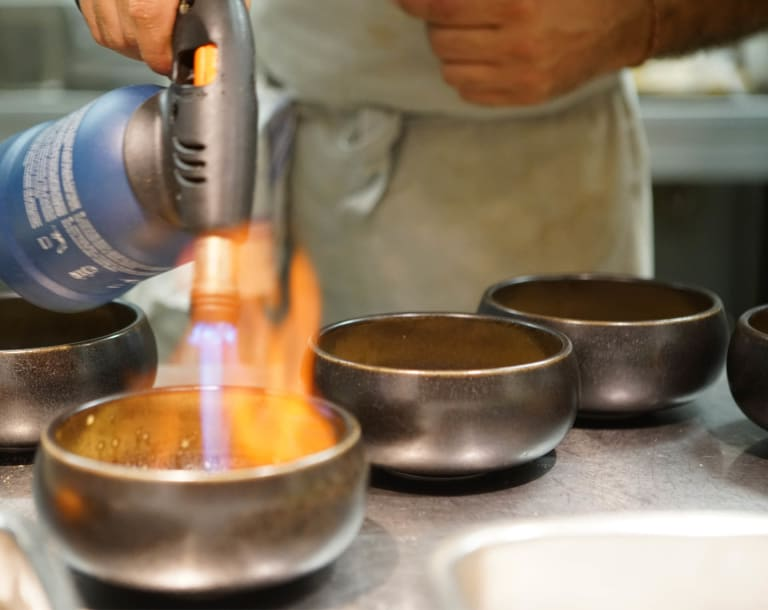
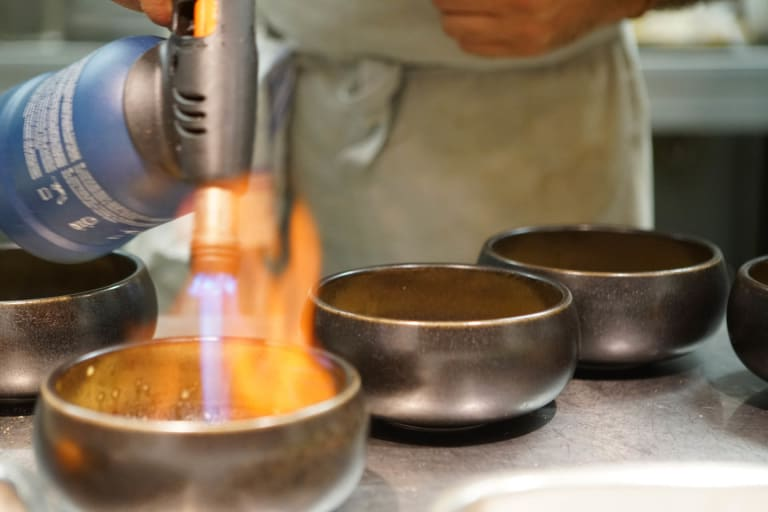
Redesign 3 sections footer images aspect ratio.
Sections :
- À Domicile;
- Cours de Pâtisserie;
- Témoignages.

diff --git a/index.html b/index.html
@@ -1185,46 +1185,43 @@
           sizes="100vw"
           srcset="
             medias/images/footers/feu_webp/feu_w_320.webp 320w,
-            medias/images/footers/feu_webp/feu_w_493.webp 493w,
-            medias/images/footers/feu_webp/feu_w_640.webp 640w,
-            medias/images/footers/feu_webp/feu_w_787.webp 787w,
-            medias/images/footers/feu_webp/feu_w_915.webp 915w,
-            medias/images/footers/feu_webp/feu_w_1068.webp 1068w,
-            medias/images/footers/feu_webp/feu_w_1164.webp 1164w,
-            medias/images/footers/feu_webp/feu_w_1178.webp 1178w,
-            medias/images/footers/feu_webp/feu_w_1288.webp 1288w,
-            medias/images/footers/feu_webp/feu_w_1390.webp 1390w,
-            medias/images/footers/feu_webp/feu_w_1507.webp 1507w,
-            medias/images/footers/feu_webp/feu_w_1626.webp 1626w,
-            medias/images/footers/feu_webp/feu_w_1751.webp 1751w,
-            medias/images/footers/feu_webp/feu_w_1679.webp 1679w,
-            medias/images/footers/feu_webp/feu_w_1768.webp 1768w,
+            medias/images/footers/feu_webp/feu_w_517.webp 517w,
+            medias/images/footers/feu_webp/feu_w_671.webp 671w,
+            medias/images/footers/feu_webp/feu_w_842.webp 842w,
+            medias/images/footers/feu_webp/feu_w_985.webp 985w,
+            medias/images/footers/feu_webp/feu_w_1152.webp 1152w,
+            medias/images/footers/feu_webp/feu_w_1267.webp 1267w,
+            medias/images/footers/feu_webp/feu_w_1276.webp 1276w,
+            medias/images/footers/feu_webp/feu_w_1374.webp 1374w,
+            medias/images/footers/feu_webp/feu_w_1506.webp 1506w,
+            medias/images/footers/feu_webp/feu_w_1624.webp 1624w,
+            medias/images/footers/feu_webp/feu_w_1770.webp 1770w,
             medias/images/footers/feu_webp/feu_w_1920.webp 1920w"
         />
         <source
           type="image/jpg"
           sizes="100vw"
           srcset="
-            medias/images/footers/feu_jpg/feu_w_320.jpg 320w,
-            medias/images/footers/feu_jpg/feu_w_453.jpg 453w,
-            medias/images/footers/feu_jpg/feu_w_556.jpg 556w,
-            medias/images/footers/feu_jpg/feu_w_679.jpg 679w,
-            medias/images/footers/feu_jpg/feu_w_768.jpg 768w,
-            medias/images/footers/feu_jpg/feu_w_862.jpg 862w,
-            medias/images/footers/feu_jpg/feu_w_958.jpg 958w,
-            medias/images/footers/feu_jpg/feu_w_1048.jpg 1048w,
-            medias/images/footers/feu_jpg/feu_w_1129.jpg 1129w,
-            medias/images/footers/feu_jpg/feu_w_1216.jpg 1216w,
-            medias/images/footers/feu_jpg/feu_w_1289.jpg 1289w,
-            medias/images/footers/feu_jpg/feu_w_1365.jpg 1365w,
-            medias/images/footers/feu_jpg/feu_w_1436.jpg 1436w,
-            medias/images/footers/feu_jpg/feu_w_1513.jpg 1513w,
-            medias/images/footers/feu_jpg/feu_w_1585.jpg 1585w,
-            medias/images/footers/feu_jpg/feu_w_1651.jpg 1651w,
-            medias/images/footers/feu_jpg/feu_w_1723.jpg 1723w,
-            medias/images/footers/feu_jpg/feu_w_1740.jpg 1740w,
-            medias/images/footers/feu_jpg/feu_w_1755.jpg 1755w,
-            medias/images/footers/feu_jpg/feu_w_1920.jpg 1920w"
+            medias/images/footers/feu_jpg/feu_jpg 320w,
+            medias/images/footers/feu_jpg/feu_jpg 448w,
+            medias/images/footers/feu_jpg/feu_jpg 555w,
+            medias/images/footers/feu_jpg/feu_jpg 675w,
+            medias/images/footers/feu_jpg/feu_jpg 768w,
+            medias/images/footers/feu_jpg/feu_jpg 869w,
+            medias/images/footers/feu_jpg/feu_jpg 957w,
+            medias/images/footers/feu_jpg/feu_.jpg 1047w,
+            medias/images/footers/feu_jpg/feu_.jpg 1122w,
+            medias/images/footers/feu_jpg/feu_.jpg 1208w,
+            medias/images/footers/feu_jpg/feu_.jpg 1290w,
+            medias/images/footers/feu_jpg/feu_.jpg 1368w,
+            medias/images/footers/feu_jpg/feu_.jpg 1440w,
+            medias/images/footers/feu_jpg/feu_.jpg 1505w,
+            medias/images/footers/feu_jpg/feu_.jpg 1585w,
+            medias/images/footers/feu_jpg/feu_.jpg 1651w,
+            medias/images/footers/feu_jpg/feu_.jpg 1722w,
+            medias/images/footers/feu_jpg/feu_.jpg 1791w,
+            medias/images/footers/feu_jpg/feu_.jpg 1858w,
+            medias/images/footers/feu_jpg/feu_.jpg 1920w"
         />
         <img
           class="zapload section__footer block--white block--skewed--bottom--left"
@@ -1880,23 +1877,23 @@
           sizes="100vw"
           srcset="
             medias/images/footers/tartes_webp/tartes_w_320.webp 320w,
-            medias/images/footers/tartes_webp/tartes_w_466.webp 466w,
-            medias/images/footers/tartes_webp/tartes_w_746.webp 746w,
-            medias/images/footers/tartes_webp/tartes_w_750.webp 750w,
-            medias/images/footers/tartes_webp/tartes_w_848.webp 848w,
-            medias/images/footers/tartes_webp/tartes_w_942.webp 942w,
-            medias/images/footers/tartes_webp/tartes_w_1027.webp 1027w,
-            medias/images/footers/tartes_webp/tartes_w_1117.webp 1117w,
-            medias/images/footers/tartes_webp/tartes_w_1211.webp 1211w,
-            medias/images/footers/tartes_webp/tartes_w_1233.webp 1233w,
-            medias/images/footers/tartes_webp/tartes_w_1232.webp 1232w,
-            medias/images/footers/tartes_webp/tartes_w_1317.webp 1317w,
-            medias/images/footers/tartes_webp/tartes_w_1389.webp 1389w,
-            medias/images/footers/tartes_webp/tartes_w_1457.webp 1457w,
-            medias/images/footers/tartes_webp/tartes_w_1524.webp 1524w,
-            medias/images/footers/tartes_webp/tartes_w_1605.webp 1605w,
+            medias/images/footers/tartes_webp/tartes_w_461.webp 461w,
+            medias/images/footers/tartes_webp/tartes_w_591.webp 591w,
+            medias/images/footers/tartes_webp/tartes_w_647.webp 647w,
+            medias/images/footers/tartes_webp/tartes_w_739.webp 739w,
+            medias/images/footers/tartes_webp/tartes_w_837.webp 837w,
+            medias/images/footers/tartes_webp/tartes_w_929.webp 929w,
+            medias/images/footers/tartes_webp/tartes_w_1010.webp 1010w,
+            medias/images/footers/tartes_webp/tartes_w_1083.webp 1083w,
+            medias/images/footers/tartes_webp/tartes_w_1191.webp 1191w,
+            medias/images/footers/tartes_webp/tartes_w_1266.webp 1266w,
+            medias/images/footers/tartes_webp/tartes_w_1282.webp 1282w,
+            medias/images/footers/tartes_webp/tartes_w_1352.webp 1352w,
+            medias/images/footers/tartes_webp/tartes_w_1426.webp 1426w,
+            medias/images/footers/tartes_webp/tartes_w_1498.webp 1498w,
+            medias/images/footers/tartes_webp/tartes_w_1569.webp 1569w,
+            medias/images/footers/tartes_webp/tartes_w_1659.webp 1659w,
             medias/images/footers/tartes_webp/tartes_w_1701.webp 1701w,
-            medias/images/footers/tartes_webp/tartes_w_1726.webp 1726w,
             medias/images/footers/tartes_webp/tartes_w_1920.webp 1920w"
         />
         <source
@@ -1904,24 +1901,24 @@
           size="100vw"
           srcset="
             medias/images/footers/tartes_jpg/tartes_w_320.jpg 320w,
-            medias/images/footers/tartes_jpg/tartes_w_450.jpg 450w,
-            medias/images/footers/tartes_jpg/tartes_w_561.jpg 561w,
-            medias/images/footers/tartes_jpg/tartes_w_662.jpg 662w,
-            medias/images/footers/tartes_jpg/tartes_w_744.jpg 744w,
-            medias/images/footers/tartes_jpg/tartes_w_833.jpg 833w,
+            medias/images/footers/tartes_jpg/tartes_w_451.jpg 451w,
+            medias/images/footers/tartes_jpg/tartes_w_560.jpg 560w,
+            medias/images/footers/tartes_jpg/tartes_w_651.jpg 651w,
+            medias/images/footers/tartes_jpg/tartes_w_732.jpg 732w,
+            medias/images/footers/tartes_jpg/tartes_w_817.jpg 817w,
             medias/images/footers/tartes_jpg/tartes_w_901.jpg 901w,
             medias/images/footers/tartes_jpg/tartes_w_980.jpg 980w,
-            medias/images/footers/tartes_jpg/tartes_w_1044.jpg 1044w,
-            medias/images/footers/tartes_jpg/tartes_w_1187.jpg 1187w,
-            medias/images/footers/tartes_jpg/tartes_w_1257.jpg 1257w,
-            medias/images/footers/tartes_jpg/tartes_w_1328.jpg 1328w,
-            medias/images/footers/tartes_jpg/tartes_w_1396.jpg 1396w,
+            medias/images/footers/tartes_jpg/tartes_w_1046.jpg 1046w,
+            medias/images/footers/tartes_jpg/tartes_w_1185.jpg 1185w,
+            medias/images/footers/tartes_jpg/tartes_w_1255.jpg 1255w,
+            medias/images/footers/tartes_jpg/tartes_w_1327.jpg 1327w,
+            medias/images/footers/tartes_jpg/tartes_w_1392.jpg 1392w,
             medias/images/footers/tartes_jpg/tartes_w_1458.jpg 1458w,
-            medias/images/footers/tartes_jpg/tartes_w_1526.jpg 1526w,
-            medias/images/footers/tartes_jpg/tartes_w_1593.jpg 1593w,
-            medias/images/footers/tartes_jpg/tartes_w_1653.jpg 1653w,
-            medias/images/footers/tartes_jpg/tartes_w_1738.jpg 1738w,
-            medias/images/footers/tartes_jpg/tartes_w_1782.jpg 1782w,
+            medias/images/footers/tartes_jpg/tartes_w_1517.jpg 1517w,
+            medias/images/footers/tartes_jpg/tartes_w_1585.jpg 1585w,
+            medias/images/footers/tartes_jpg/tartes_w_1652.jpg 1652w,
+            medias/images/footers/tartes_jpg/tartes_w_1715.jpg 1715w,
+            medias/images/footers/tartes_jpg/tartes_w_1801.jpg 1801w,
             medias/images/footers/tartes_jpg/tartes_w_1920.jpg 1920w"
           />
         <img
@@ -2119,46 +2116,45 @@
           type="image/webp"
           sizes="100vw"
           srcset="
-            medias/images/footers/lombria_webp/lombria_w_310.webp 310w,
-            medias/images/footers/lombria_webp/lombria_w_631.webp 631w,
-            medias/images/footers/lombria_webp/lombria_w_889.webp 889w,
-            medias/images/footers/lombria_webp/lombria_w_1066.webp 1066w,
-            medias/images/footers/lombria_webp/lombria_w_1177.webp 1177w,
-            medias/images/footers/lombria_webp/lombria_w_1217.webp 1217w,
-            medias/images/footers/lombria_webp/lombria_w_1279.webp 1279w,
-            medias/images/footers/lombria_webp/lombria_w_1374.webp 1374w,
-            medias/images/footers/lombria_webp/lombria_w_1463.webp 1463w,
-            medias/images/footers/lombria_webp/lombria_w_1544.webp 1544w,
-            medias/images/footers/lombria_webp/lombria_w_1624.webp 1624w,
-            medias/images/footers/lombria_webp/lombria_w_1703.webp 1703w,
-            medias/images/footers/lombria_webp/lombria_w_1765.webp 1765w,
-            medias/images/footers/lombria_webp/lombria_w_1840.webp 1840w,
-            medias/images/footers/lombria_webp/lombria_w_1915.webp 1915w,
-            medias/images/footers/lombria_webp/lombria_w_1917.webp 1917w,
+            medias/images/footers/lombria_webp/lombria_w_320.webp 320w,
+            medias/images/footers/lombria_webp/lombria_w_643.webp 643w,
+            medias/images/footers/lombria_webp/lombria_w_854.webp 854w,
+            medias/images/footers/lombria_webp/lombria_w_1079.webp 1079w,
+            medias/images/footers/lombria_webp/lombria_w_1231.webp 1231w,
+            medias/images/footers/lombria_webp/lombria_w_1266.webp 1266w,
+            medias/images/footers/lombria_webp/lombria_w_1339.webp 1339w,
+            medias/images/footers/lombria_webp/lombria_w_1298.webp 1298w,
+            medias/images/footers/lombria_webp/lombria_w_1476.webp 1476w,
+            medias/images/footers/lombria_webp/lombria_w_1493.webp 1493w,
+            medias/images/footers/lombria_webp/lombria_w_1528.webp 1528w,
+            medias/images/footers/lombria_webp/lombria_w_1690.webp 1690w,
+            medias/images/footers/lombria_webp/lombria_w_1854.webp 1854w,
+            medias/images/footers/lombria_webp/lombria_w_1859.webp 1859w,
+            medias/images/footers/lombria_webp/lombria_w_1912.webp 1912w,
             medias/images/footers/lombria_webp/lombria_w_1920.webp 1920w"
         />
         <source
           type="image/jpg"
           sizes="100vw"
-          srcset="
-            medias/images/footers/lombria_jpg/lombria_w_310.jpg 310w,
-            medias/images/footers/lombria_jpg/lombria_w_478.jpg 478w,
-            medias/images/footers/lombria_jpg/lombria_w_597.jpg 597w,
-            medias/images/footers/lombria_jpg/lombria_w_712.jpg 712w,
-            medias/images/footers/lombria_jpg/lombria_w_823.jpg 823w,
-            medias/images/footers/lombria_jpg/lombria_w_921.jpg 921w,
-            medias/images/footers/lombria_jpg/lombria_w_1008.jpg 1008w,
-            medias/images/footers/lombria_jpg/lombria_w_1088.jpg 1088w,
-            medias/images/footers/lombria_jpg/lombria_w_1164.jpg 1164w,
-            medias/images/footers/lombria_jpg/lombria_w_1222.jpg 1222w,
-            medias/images/footers/lombria_jpg/lombria_w_1295.jpg 1295w,
-            medias/images/footers/lombria_jpg/lombria_w_1329.jpg 1329w,
-            medias/images/footers/lombria_jpg/lombria_w_1231.jpg 1231w,
-            medias/images/footers/lombria_jpg/lombria_w_1564.jpg 1564w,
-            medias/images/footers/lombria_jpg/lombria_w_1580.jpg 1580w,
-            medias/images/footers/lombria_jpg/lombria_w_1632.jpg 1632w,
-            medias/images/footers/lombria_jpg/lombria_w_1686.jpg 1686w,
-            medias/images/footers/lombria_jpg/lombria_w_1732.jpg 1732w,
+          sizes="(max-width: 1920px) 100vw, 1920px"
+            srcset="
+            medias/images/footers/lombria_jpg/lombria_w_320.jpg 320w,
+            medias/images/footers/lombria_jpg/lombria_w_483.jpg 483w,
+            medias/images/footers/lombria_jpg/lombria_w_612.jpg 612w,
+            medias/images/footers/lombria_jpg/lombria_w_719.jpg 719w,
+            medias/images/footers/lombria_jpg/lombria_w_826.jpg 826w,
+            medias/images/footers/lombria_jpg/lombria_w_920.jpg 920w,
+            medias/images/footers/lombria_jpg/lombria_w_1219.jpg 1219w,
+            medias/images/footers/lombria_jpg/lombria_w_1240.jpg 1240w,
+            medias/images/footers/lombria_jpg/lombria_w_1225.jpg 1225w,
+            medias/images/footers/lombria_jpg/lombria_w_1328.jpg 1328w,
+            medias/images/footers/lombria_jpg/lombria_w_1411.jpg 1411w,
+            medias/images/footers/lombria_jpg/lombria_w_1471.jpg 1471w,
+            medias/images/footers/lombria_jpg/lombria_w_1524.jpg 1524w,
+            medias/images/footers/lombria_jpg/lombria_w_1576.jpg 1576w,
+            medias/images/footers/lombria_jpg/lombria_w_1631.jpg 1631w,
+            medias/images/footers/lombria_jpg/lombria_w_1682.jpg 1682w,
+            medias/images/footers/lombria_jpg/lombria_w_1729.jpg 1729w,
             medias/images/footers/lombria_jpg/lombria_w_1920.jpg 1920w"
         />
         <img
